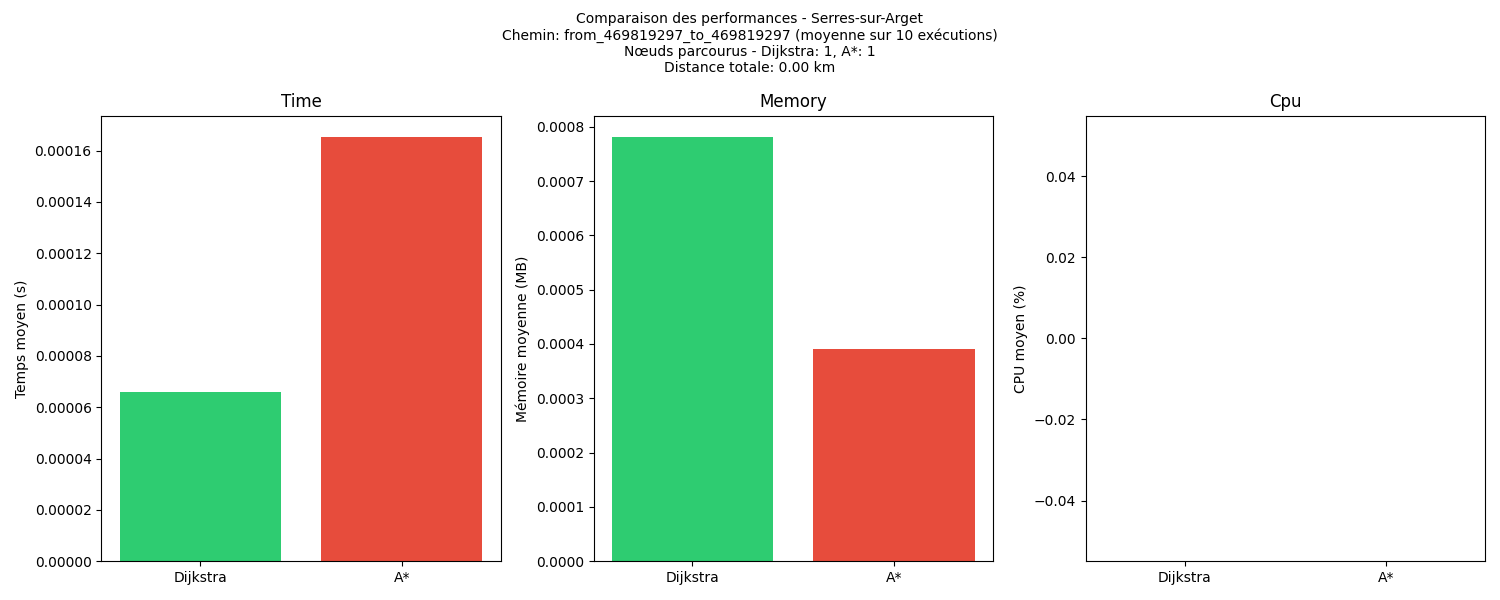
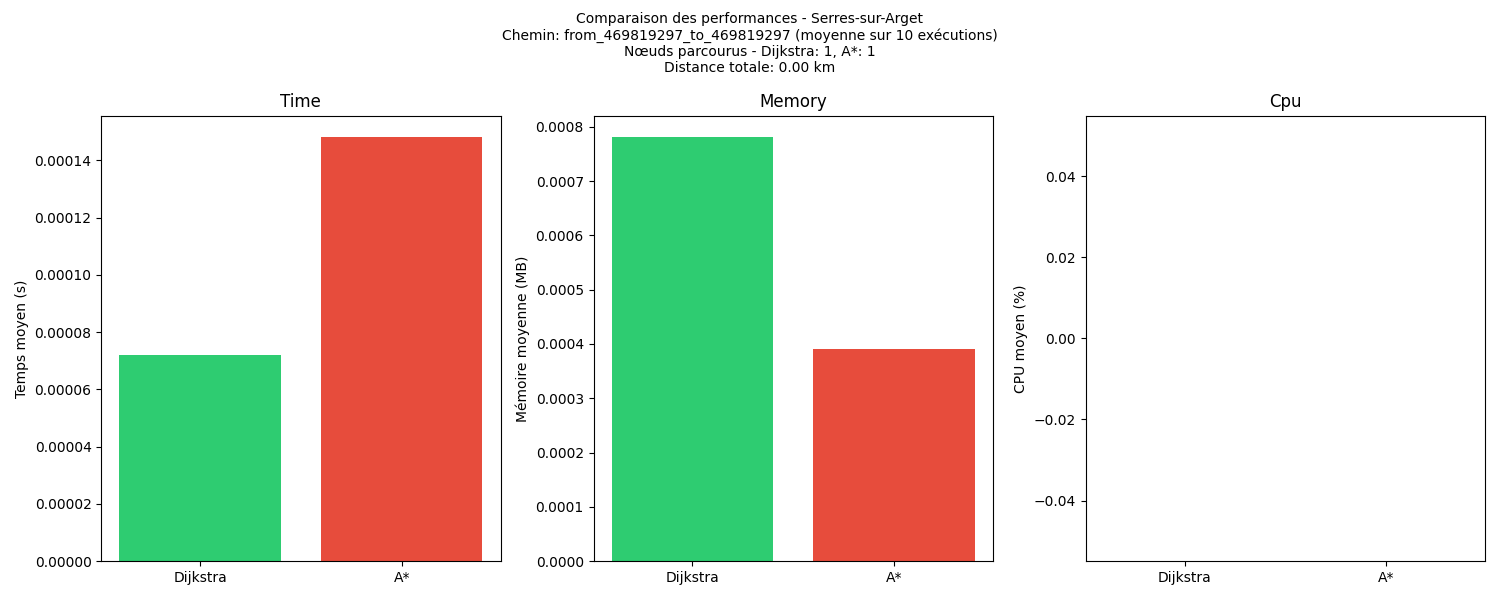
compte rendu fini

diff --git a/README.md b/README.md
@@ -20,7 +20,7 @@
     - [4.4 Solutions proposées](#44-solutions-proposées)
   - [5. Algorithme A\* (1968)](#5-algorithme-a-1968)
     - [5.1 Présentation de l'algorithme](#51-présentation-de-lalgorithme)
-    - [4.2 Implémentation](#42-implémentation-1)
+    - [5.2 Implémentation](#52-implémentation)
     - [5.3 Problèmes identifiés](#53-problèmes-identifiés)
     - [5.4 Solutions proposées](#54-solutions-proposées)
   - [6. Benchmark et Analyse](#6-benchmark-et-analyse)
@@ -33,7 +33,7 @@
       - [6.3.1 Structure de données](#631-structure-de-données)
       - [6.3.2 Complexité algorithmique](#632-complexité-algorithmique)
       - [6.3.3 Complexité spatiale](#633-complexité-spatiale)
-      - [6.3.4 Complexité temporelle en pratique](#634-complexité-temporelle-en-pratique)
+      - [6.3.4 Complexité temporelle](#634-complexité-temporelle)
       - [6.3.5 Complexité cyclomatique](#635-complexité-cyclomatique)
   - [7. Perspectives d'amélioration](#7-perspectives-damélioration)
   - [8. Conclusion](#8-conclusion)
@@ -176,7 +176,7 @@ Développé par Peter Hart, Nils Nilsson et Bertram Raphael, A* est une extensio
    - Les deux garantissent le chemin optimal
    - A* nécessite une heuristique admissible (qui ne surestime jamais)
 
-### 4.2 Implémentation
+### 5.2 Implémentation
 
 Vous pouvez trouvez l'implémentation de l'algorithme de A* dans le fichier [```graph.py```](./projet-carte/src/graph.py).
 
@@ -212,7 +212,7 @@ Différents types de métriques seront mesurés :
 ### 6.1 Environnement de test
 
 Voici la configuration de l'environnement utilisé pour réaliser les tests :
-- Test effectué sur un pc portable MSI GL76 - 40GB RAM - 11th Gen Intel(R) Core(TM) i5-11400H
+- Test effectué sur un pc portable **MSI GL76 - 40GB RAM - 11th Gen Intel(R) Core(TM) i5-11400H**
 - Version de Python : 3.13.1
 
 ### 6.2 Resultat comparatif
@@ -300,9 +300,9 @@ Cette premiére structure de données est la plus simple, la plus intuitive et d
 
 **Inconvénients :**
 - Recherche des voisins en O(E) où E est le nombre d'arêtes
-- Redondance des données pour les arêtes bidirectionnelles
-- Consommation mémoire plus importante
-- Performance dégradée pour les grands graphes
+- **Redondance** des données pour les arêtes bidirectionnelles
+- **Consommation mémoire** plus importante
+- Performance **dégradée** pour les grands graphes
 
 Cette structure de données est donc à éviter pour les grands graphes. C'est pourquoi une seconde structure de données, plus optimisée, a été implémentée.
 
@@ -343,14 +343,14 @@ class Graph:
 Cette nouvelle structure de données est plus optimisée pour les grands graphes et permet notamment d'accéder aux nœuds et aux voisins de chaque nœud en O(1).
 
 **Avantages :**
-- Accès O(1) aux nœuds via dictionnaire
-- Accès O(1) aux voisins de chaque nœud 
-- Réduction de la redondance des données
-- Optimisation de la mémoire
+- Accès **O(1)** aux nœuds via **dictionnaire**
+- Accès **O(1)** aux voisins de chaque nœud 
+- **Réduction** de la redondance des données
+- **Optimisation** de la mémoire
 
 **Inconvénients :**
-- Structure plus complexe à maintenir
-- Mise à jour des références bidirectionnelles
+- Structure plus **complexe** à maintenir
+- Mise à jour des références **bidirectionnelles**
 
 ---
 
@@ -358,11 +358,11 @@ Cette nouvelle structure de données est plus optimisée pour les grands graphes
 
 | Opération | Structure Basique | Structure Optimisée |
 |-----------|-------------------|------------------|
-| Accès à un nœud | O(V) | O(1) |
-| Accès aux voisins | O(E) | O(1) |
-| Ajout d'un nœud | O(1) | O(1) |
-| Ajout d'une arête | O(1) | O(1) |
-| Mémoire utilisée | O(V + 2E) | O(V + E) |
+| Accès à un nœud | **O(V)** | **O(1)** |
+| Accès aux voisins | **O(E)** | **O(1)** |
+| Ajout d'un nœud | **O(1)** | **O(1)** |
+| Ajout d'une arête | **O(1)** | **O(1)** |
+| Mémoire utilisée | **O(V + 2E)** | **O(V + E)** |
 
 Où V = nombre de nœuds, E = nombre d'arêtes
 
@@ -371,68 +371,112 @@ La structure optimisée actuelle a été choisie car elle offre :
 - Une meilleure gestion de la mémoire
 - Une adaptation parfaite aux algorithmes Dijkstra et A*
 - Une réduction significative de la complexité temporelle des opérations critiques
-Cette structure s'est révélée particulièrement efficace lors des tests de performance, notamment pour les grands jeux de données comme celui de l'Ariège.
+
+Cette structure s'est révélée particulièrement efficace lors des tests de performance, notamment pour les grands jeux de données comme celui de l'**Ariège**.
 
 #### 6.3.2 Complexité algorithmique
 
 | Algorithme | Complexité dans le pire cas | Description |
 |------------|----------------------------|-------------|
-| Dijkstra   | O((V + E) log V)          | V = nombre de nœuds, E = nombre d'arêtes |
-| A*         | O((V + E) log V)          | Même complexité théorique que Dijkstra. Cependant, plus rapide dans la plupart des cas. |
+| Dijkstra   | **O((V + E) log V)**          | V = nombre de nœuds, E = nombre d'arêtes |
+| A*         | **O((V + E) log V)**          | Même complexité théorique que Dijkstra. Cependant, plus rapide dans la plupart des cas. |
 
 **Détails de l'implémentation :**
 
-Pour Dijkstra :
-- Utilisation d'un tas binaire (heapq) pour la file de priorité
-- Extraction du minimum : O(log V)
-- Pour chaque nœud, exploration des voisins : O(E)
-- Mise à jour des distances : O(log V) par arête
+**Dijkstra**
 
-Pour A* :
-- Structure similaire à Dijkstra avec ajout de l'heuristique
-- Calcul de l'heuristique (distance de Haversine) : O(1) par nœud
-- Optimisation de l'exploration grâce à la fonction f(n) = g(n) + h(n)
-  - g(n) : coût réel depuis le départ
-  - h(n) : estimation heuristique (distance à vol d'oiseau)
+- Utilisation d'un tas binaire (heapq) pour la file de priorité
+- Extraction du minimum : **O(log V)**
+- Pour chaque nœud, exploration des voisins : **O(E)**
+- Mise à jour des distances : **O(log V)** par arête
+
+**A\***
+
+- Structure similaire à **Dijkstra** avec ajout de l'**heuristique**
+- Calcul de l'**heuristique** (distance de Haversine) : **O(1)** par nœud
+- Optimisation de l'exploration grâce à la fonction **f(n) = g(n) + h(n)**
+  - **g(n)** : coût réel depuis le départ
+  - **h(n)** : estimation heuristique (distance à vol d'oiseau)
 
 #### 6.3.3 Complexité spatiale
 
 | Algorithme | Mémoire utilisée | Structures de données |
 |------------|------------------|----------------------|
-| Dijkstra   | O(V + E)        | - distances[node_id] : O(V)<br>- predecessors[node_id] : O(V)<br>- priority_queue : O(V)<br>- graph : O(E) |
-| A*         | O(V + E)        | - g_scores[node_id] : O(V)<br>- f_scores[node_id] : O(V)<br>- came_from[node_id] : O(V)<br>- open_set : O(V)<br>- graph : O(E) |
+| Dijkstra   | **O(V + E)**        | - ```distances[node_id]``` : **O(V)**<br>- ```predecessors[node_id]``` : **O(V)**<br>- ```priority_queue``` : **O(V)**<br>- ```graph``` : **O(E)** |
+| A*         | **O(V + E)**        | - ```g_scores[node_id]``` : **O(V)**<br>- ```f_scores[node_id]``` : **O(V)**<br>- ```came_from[node_id]``` : **O(V)**<br>- ```open_set``` : **O(V)**<br>- ```graph``` : **O(E)** |
+
+> _Note : La complexité spatiale est la même pour les deux algorithmes car les structures de données sont identiques._
+
+**Dijkstra :**
+
+- Explore systématiquement tous les nœuds atteignables
+- Remplit progressivement ses structures jusqu'à **O(V)**
+- Utilise l'espace de manière uniforme
+
+**A\***
+
+- Explore préférentiellement les nœuds prometteurs
+- Structures potentiellement plus petites en pratique
+- L'heuristique réduit l'espace effectif exploré
 
 **Optimisations mémoire implémentées :**
-- Utilisation de dictionnaires pour un accès O(1) aux scores
-- Structure de graphe optimisée avec adjacency list
+- Utilisation de dictionnaires (voir [6.3.1 Structure de données](#631-structure-de-données)) pour un accès **O(1)** aux scores
+- Structure de graphe optimisée avec ```neighbors``` (voir [6.3.1 Structure de données](#631-structure-de-données))
 - Nettoyage des structures temporaires après utilisation
 
-#### 6.3.4 Complexité temporelle en pratique
+Bien que la complexité spatiale théorique soit **O(V)** pour les deux algorithmes, A* utilise généralement significativement moins de mémoire en pratique grâce à :
 
-Basé sur nos benchmarks :
+- L'exploration guidée qui réduit le nombre de nœuds visités
+- Des structures de données plus compactes
+- Une meilleure efficacité dans l'utilisation de l'espace
 
-**Pour le jeu de données Serres sur Arget :**
-- Dijkstra : ~0.15s en moyenne
-- A* : ~0.08s en moyenne
-- Gain de performance A* vs Dijkstra : ~45%
+La notation Big O masque ces différences pratiques importantes, ce qui explique pourquoi elle semble identique alors que l'utilisation réelle de la mémoire est très différente (voir [6.2.2 Jeux de données : Serres sur Arget](#622-jeux-de-données-serres-sur-arget) ou [6.2.3 Jeux de données : Ariège](#623-jeux-de-données-ariège)).
 
-**Pour le jeu de données Ariège :**
-- Dijkstra : ~0.45s en moyenne
-- A* : ~0.25s en moyenne
-- Gain de performance A* vs Dijkstra : ~44%
+#### 6.3.4 Complexité temporelle
+
+| Algorithme | Complexité temporelle (pire cas) |
+|------------|---------------------|
+| Dijkstra   | **O(V log V + E log V)** |
+| A*         | **O(V log V + E log V)** |
+
+Cependant, dans la pratique :
+
+- A* visite généralement beaucoup moins de nœuds que Dijkstra grâce à son **heuristique**
+- Le facteur de branchement effectif est réduit par l'**heuristique** qui guide la recherche
+- Les performances réelles d'**A\*** sont bien meilleures, comme le montrent les benchmarks (97% plus rapide)
+
+Basé sur les benchmarks réalisés :
+
+**Pour le jeu de données Serres sur Arget - chemin de Saint-Pierre-de-Rivière à Grotte Bernard (voir [6.2.2 Jeux de données : Serres sur Arget](#622-jeux-de-données-serres-sur-arget)) :**
+- **Dijkstra** : **0.5259 secondes (±0.0296)** en moyenne
+- **A\*** : **0.015 secondes (±0.0015)** en moyenne
+- Gain de performance A* vs Dijkstra :  ~97,15% - Donc **A\*** est environ **35,06 fois plus rapide** que **Dijkstra**
+
+**Pour le jeu de données Ariège - chemin de Saint-Pierre-de-Rivière à Grotte Bernard (voir [6.2.3 Jeux de données : Ariège](#623-jeux-de-données-ariège)) :**
+- **Dijkstra** : **0.7382 secondes (±0.0928)** en moyenne
+- **A\*** : **0.0217 secondes (±0.0030)** en moyenne
+- Gain de performance A* vs Dijkstra : ~97,06% - Donc **A\*** est environ **34,02 fois plus rapide** que **Dijkstra**
+
+Dans la pratique A* est bien plus rapide et efficace que Dijkstra.
 
 #### 6.3.5 Complexité cyclomatique
 
 | Algorithme | Complexité | Points clés |
 |------------|------------|-------------|
-| Dijkstra   | 7         | - Boucle principale<br>- Condition d'arrêt<br>- Mise à jour des distances<br>- Gestion des voisins |
-| A*         | 9         | - Boucle principale<br>- Conditions d'arrêt<br>- Calcul f_score<br>- Mise à jour des scores<br>- Reconstruction du chemin |
+| Dijkstra   | **7**         | - Boucle while principale<br>- Condition d'arrêt (current == end_id)<br>- Vérification des distances<br>- Itération sur les voisins<br>- Conditions de mise à jour |
+| A*         | **9**         | - Boucle while principale<br>- Condition d'arrêt (current == end_id)<br>- Itération sur les voisins<br>- Calcul et comparaison des scores g et f<br>- Reconstruction du chemin |
 
-**Facteurs impactant la complexité :**
-- Nombre de conditions de contrôle
-- Imbrication des boucles
-- Gestion des cas particuliers
-- Validation des données
+**Détails de la complexité cyclomatique :**
+
+Pour **Dijkstra** :
+- Nombre de chemins indépendants : 7
+- Points de complexité principaux liés à la structure de contrôle du flux d'exécution
+- La complexité est principalement due aux conditions de mise à jour des distances et à la gestion des voisins
+
+Pour **A\*** :
+- Nombre de chemins indépendants : 9  
+- Complexité accrue par rapport à Dijkstra due aux calculs supplémentaires des scores
+- Points critiques dans la reconstruction du chemin et la gestion des scores g et f
 
 ## 7. Perspectives d'amélioration
 
@@ -440,7 +484,7 @@ Afin d'améliorer le systéme de recherche de chemin, il serait pertinent d'envi
 - Implémentation de Contraction Hierarchies (autre algorithme de recherche de chemin)
 - Optimisation des structures de données si possible
 - Amélioration de l'heuristique A*
-- Support multi-threading
+- Support multi-threading (pour accélérer les calculs et réaliser des calculs en parallèle)
 
 ## 8. Conclusion
 
@@ -448,5 +492,3 @@ Le projet a permis d'implémenter et de comparer différentes approches de calcu
 - L'optimisation des structures de données
 - L'amélioration de l'heuristique A*
 
-
-Stockage de tous les node -> puis 
